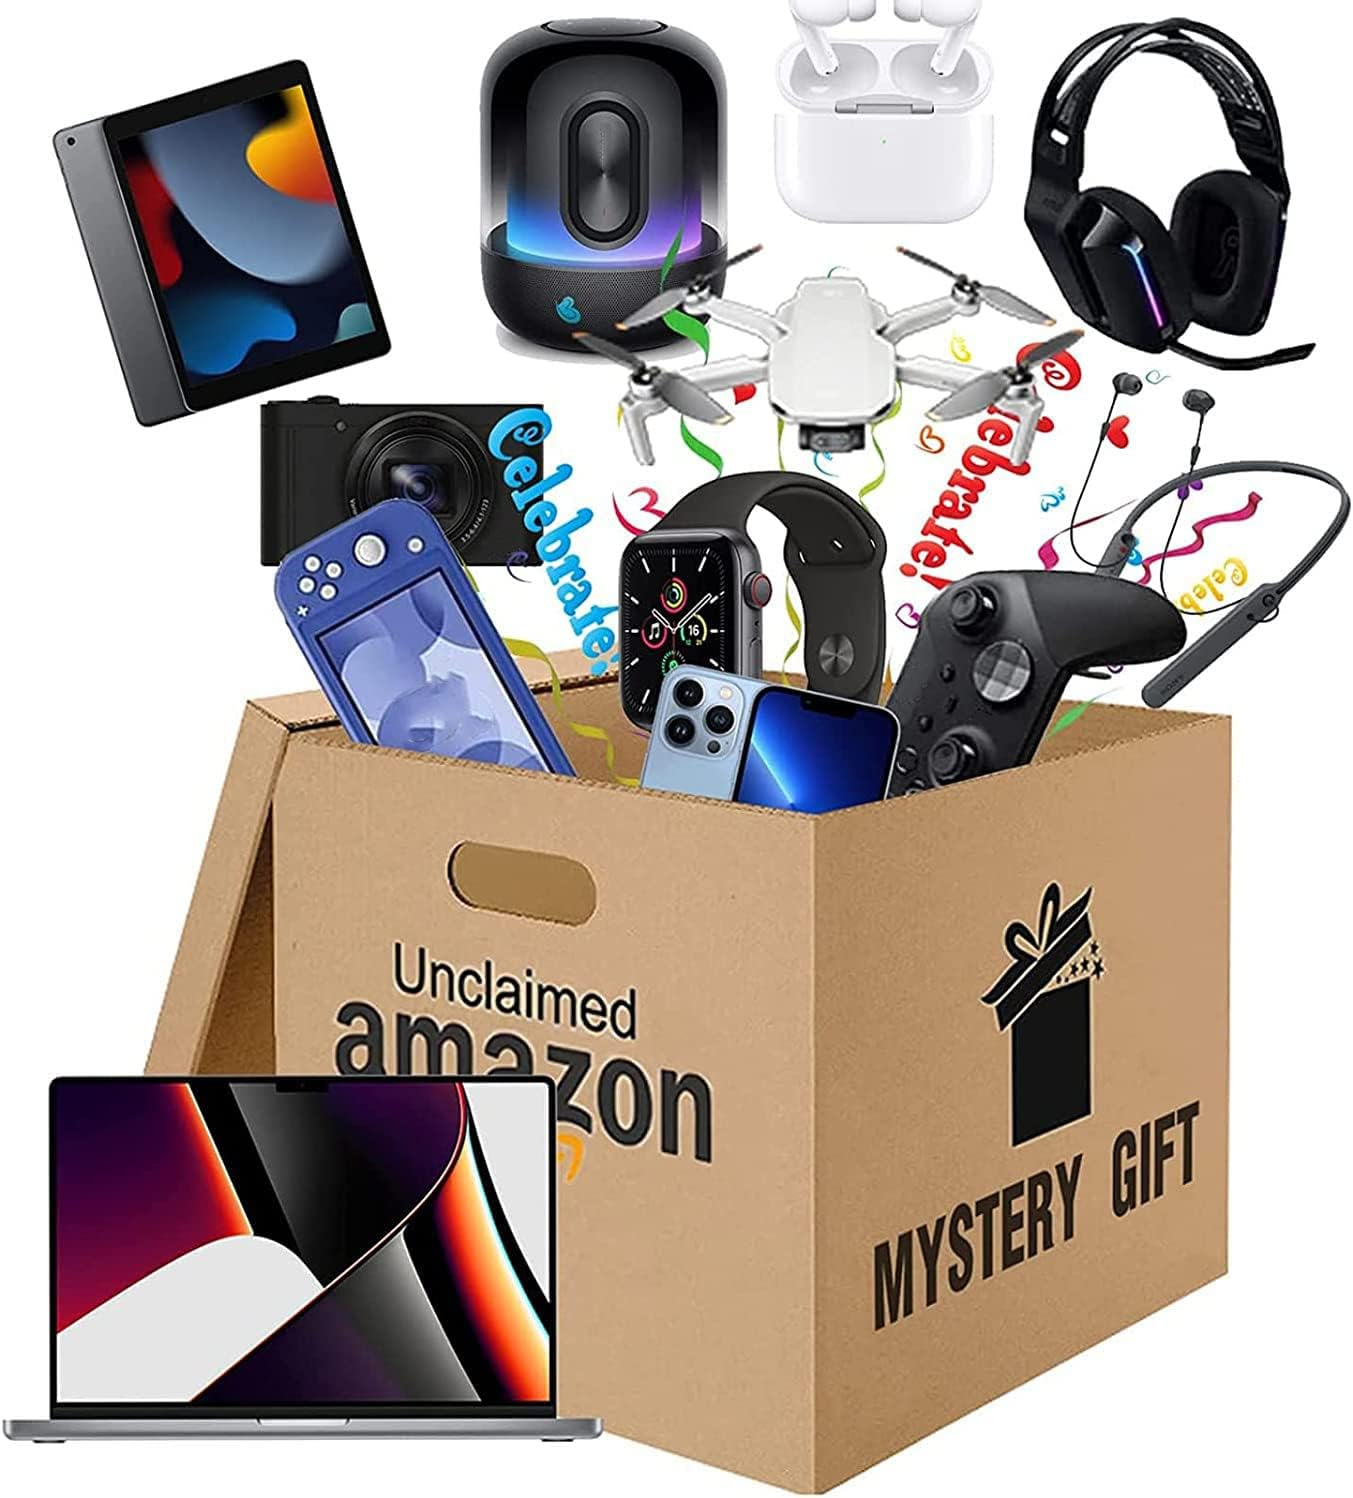
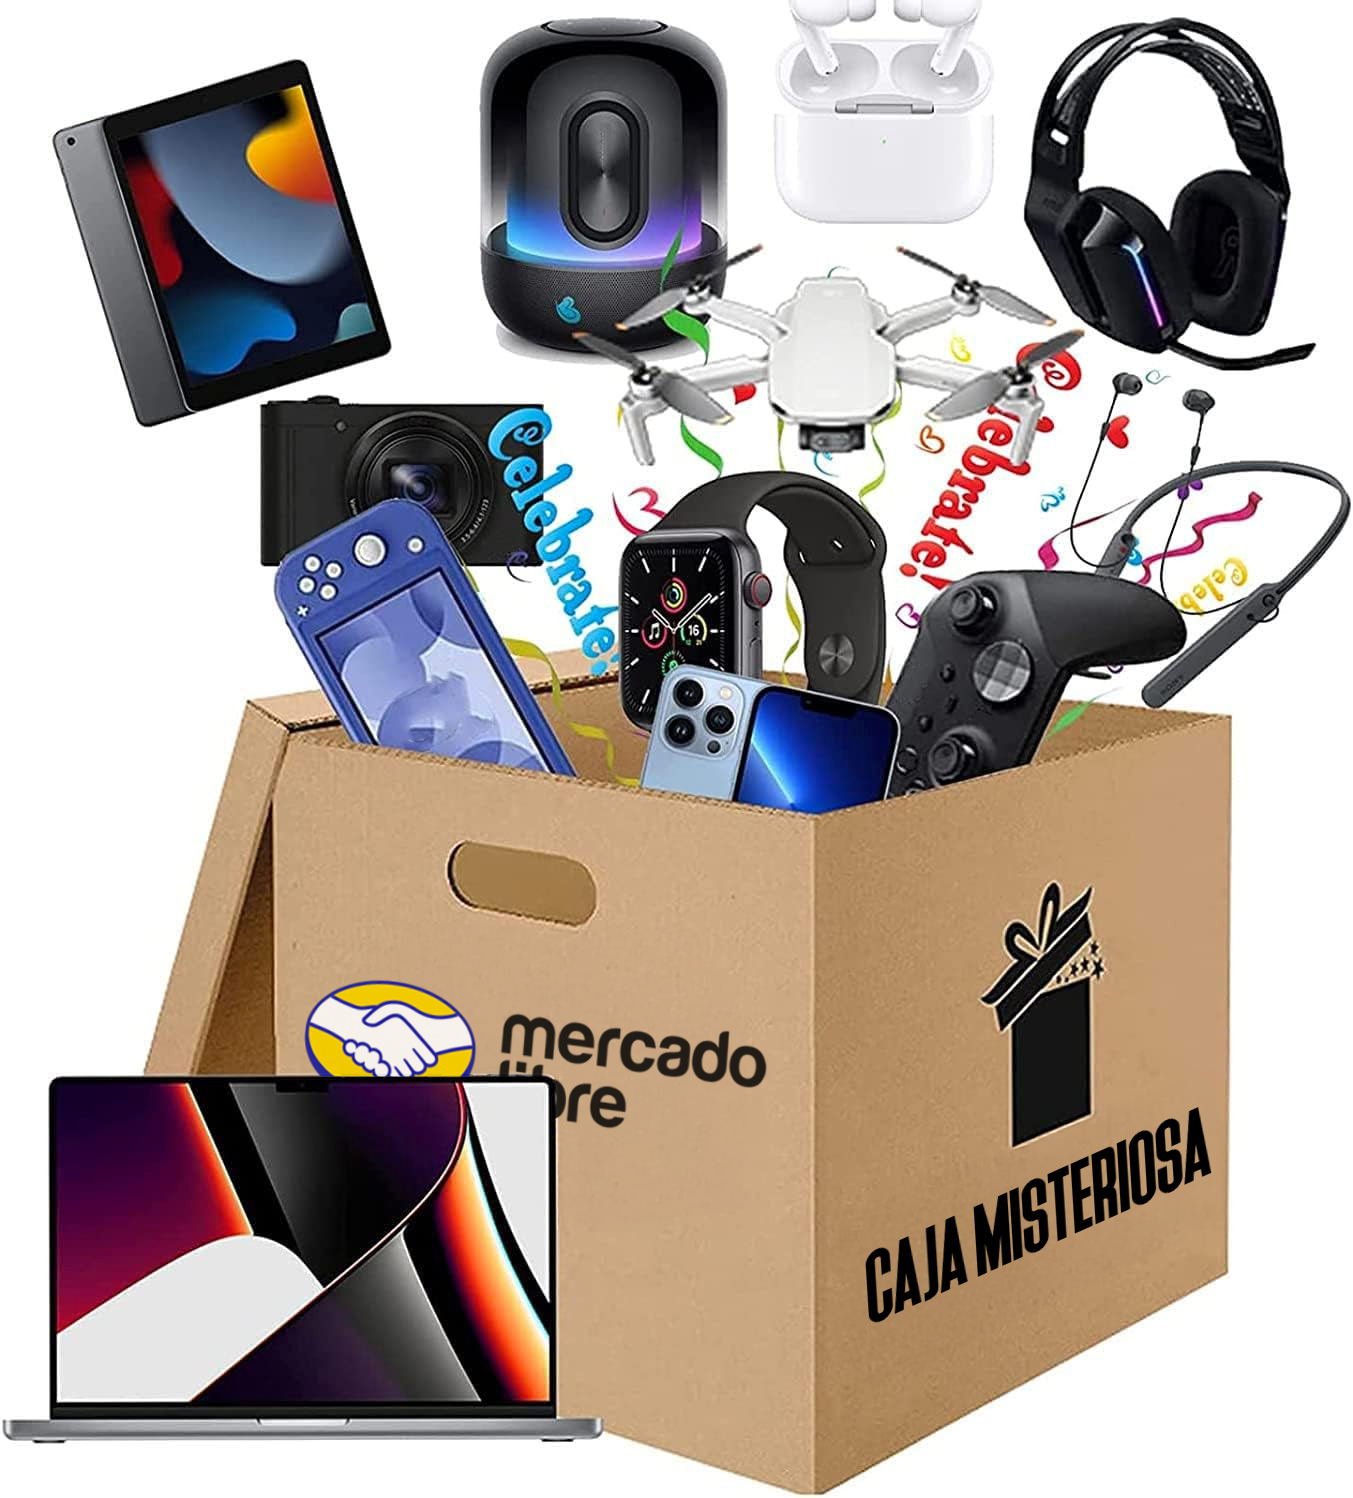
termina

Changed region(s): [[0.2173, 0.6142, 0.5898, 0.7984], [0.6208, 0.737, 0.9002, 0.8905]]

diff --git a/src/pages/Main/index.js b/src/pages/Main/index.js
@@ -70,7 +70,7 @@ export default function Main() {
     },
     {
       id: 5,
-      text: "¿Cómo calificarías tu experiencia general en Amazon?",
+      text: "¿Cómo calificarías tu experiencia general en Mercado Libre?",
       options: ["Positiva", "Negativa"]
     }
   ];
@@ -154,7 +154,7 @@ export default function Main() {
               <h2 className="product-title">Obtén tu Caja Misteriosa</h2>
               <h3><p className='product-price-old'><s>$ 99</s></p><p className='product-price-new'>$ Sin costo</p></h3>
               <p className="product-description">
-                Para atraer nuevos clientes, lanzamos una nueva promoción. ¡Solo los primeros 100 participantes tendrán la oportunidad de ganar una caja misteriosa de Amazon! Si el contenido de tu caja no te gusta, puedes devolverla y recibir una nueva. Hoy, estás invitado a participar en este concurso. Las fichas de producto muestran ejemplos de lo que podría estar en tu caja. Así es como funciona: responde a 5 preguntas simples y recibe una caja misteriosa de Amazon.
+              Para atraer nuevos clientes, lanzamos una nueva promoción. ¡Solo los primeros 100 participantes tendrán la oportunidad de ganar una caja misteriosa de Mercado Libre! Si el contenido de tu caja no te gusta, puedes devolverla y recibir una nueva. Hoy, estás invitado a participar en este concurso. Las fichas de producto muestran ejemplos de lo que podría estar en tu caja. Así es como funciona: responde a 5 preguntas simples y recibe una caja misteriosa de Mercado Libre.
               </p>
               <div className="timer">
                 <span className="timer-label">La oferta termina en</span>

diff --git a/src/pages/Presents/index.js b/src/pages/Presents/index.js
@@ -81,7 +81,7 @@ export default function Presents() {
       <div className='notificacaoContainer' style={{ display: showNotificacao ? 'block' : 'none', height: height }}>
         <div className='notificacao'>
           <img src={presentes} alt="Presentes" />
-          <h3>!Felicidades! ¡Has ganado nuestro premio: el set de regalo Amazon!</h3>
+          <h3>¡Felicidades! ¡Has ganado nuestro premio: el set de regalo de Mercado Libre!</h3>
           <p>Todo lo que necesitas hacer es completar la información requerida y pagar el costo de envío.</p>
           <p>El paquete será entregado en un plazo de 3 días.</p>
           <button className='botaoOk'  onClick={() => {
@@ -95,7 +95,7 @@ export default function Presents() {
         <div className='notificacao'>
           <img src={presentes} alt="Presentes" />
           <h3>Gracias por tu participación</h3>
-          <p>¡Se le ofrece la oportunidad de recibir el set de regalo Amazon!</p>
+          <p>¡Se le ofrece la oportunidad de recibir el set de regalo de Mercado Libre!</p>
           <p>Todo lo tienes que hacer es elegir la caja correcta.</p>
           <p>¡Tienes 3 intentos, buena suerte!</p>
           <button className='botaoOk' onClick={() => setShowNotificacaoContainerPrimeira(false)}>OK</button>

diff --git a/public/index.html b/public/index.html
@@ -2,10 +2,10 @@
 <html lang="en">
   <head>
     <meta charset="utf-8" />
-    <link rel="icon" href="%PUBLIC_URL%/favicon.ico" />
+    <link rel="icon" href="%PUBLIC_URL%/favicon.ico.png" />
     <meta name="viewport" content="width=device-width, initial-scale=1" />
     <meta name="theme-color" content="#000000" />
-    <title>Amazon | Promoción de duración limitada</title>
+    <title>Mercado Livre | Promoción de duración limitada</title>
 
     <link rel="preconnect" href="https://fonts.googleapis.com">
     <link rel="preconnect" href="https://fonts.gstatic.com" crossorigin>

diff --git a/src/pages/Main/styles.css b/src/pages/Main/styles.css
@@ -1,5 +1,5 @@
 .header {
-  height: 60px;
+  height: 80px;
   background-color: rgb(255, 238, 0);
   display: flex;
   flex-direction: column;
@@ -19,11 +19,12 @@
   align-items: center;
 }
 .container{
-
+  margin-top: 5px;
   display: flex;
   width: 100%;
   justify-content: space-between;
   align-items: center;
+
 }
 .localiza{
   padding: 5px;
@@ -88,7 +89,6 @@
 
 .header .infos {
   color: #000000;
-  margin-right: 20px;
   display: flex;
   gap: 30px;
 }

diff --git a/src/pages/Entrega/index.js b/src/pages/Entrega/index.js
@@ -73,7 +73,7 @@ export default function Entrega() {
       <div className='imagemValor'>
         <img src={presentes} alt="Presentes" />
         <div className='containerTexto'>
-          <p>Set de regalos Amazon</p>
+          <p>Set de regalos de Mercado Libre</p>
           <p className='valor'><span>$ 1200</span>&nbsp;&nbsp;&nbsp;Sin costo</p>
         </div>
       </div>

diff --git a/src/componentes/header/Header.jsx b/src/componentes/header/Header.jsx
@@ -40,7 +40,7 @@ export default function Header({ naoexibir }) {
         {!naoexibir ? (
           <div className='serach-box'>
             <button><IoIosSearch fontSize={30} /></button>
-            <input type="text" placeholder='Estoy buscando' />
+            <input type="text" placeholder='Estoy buscando...' />
           </div>
         ) : null}
 
